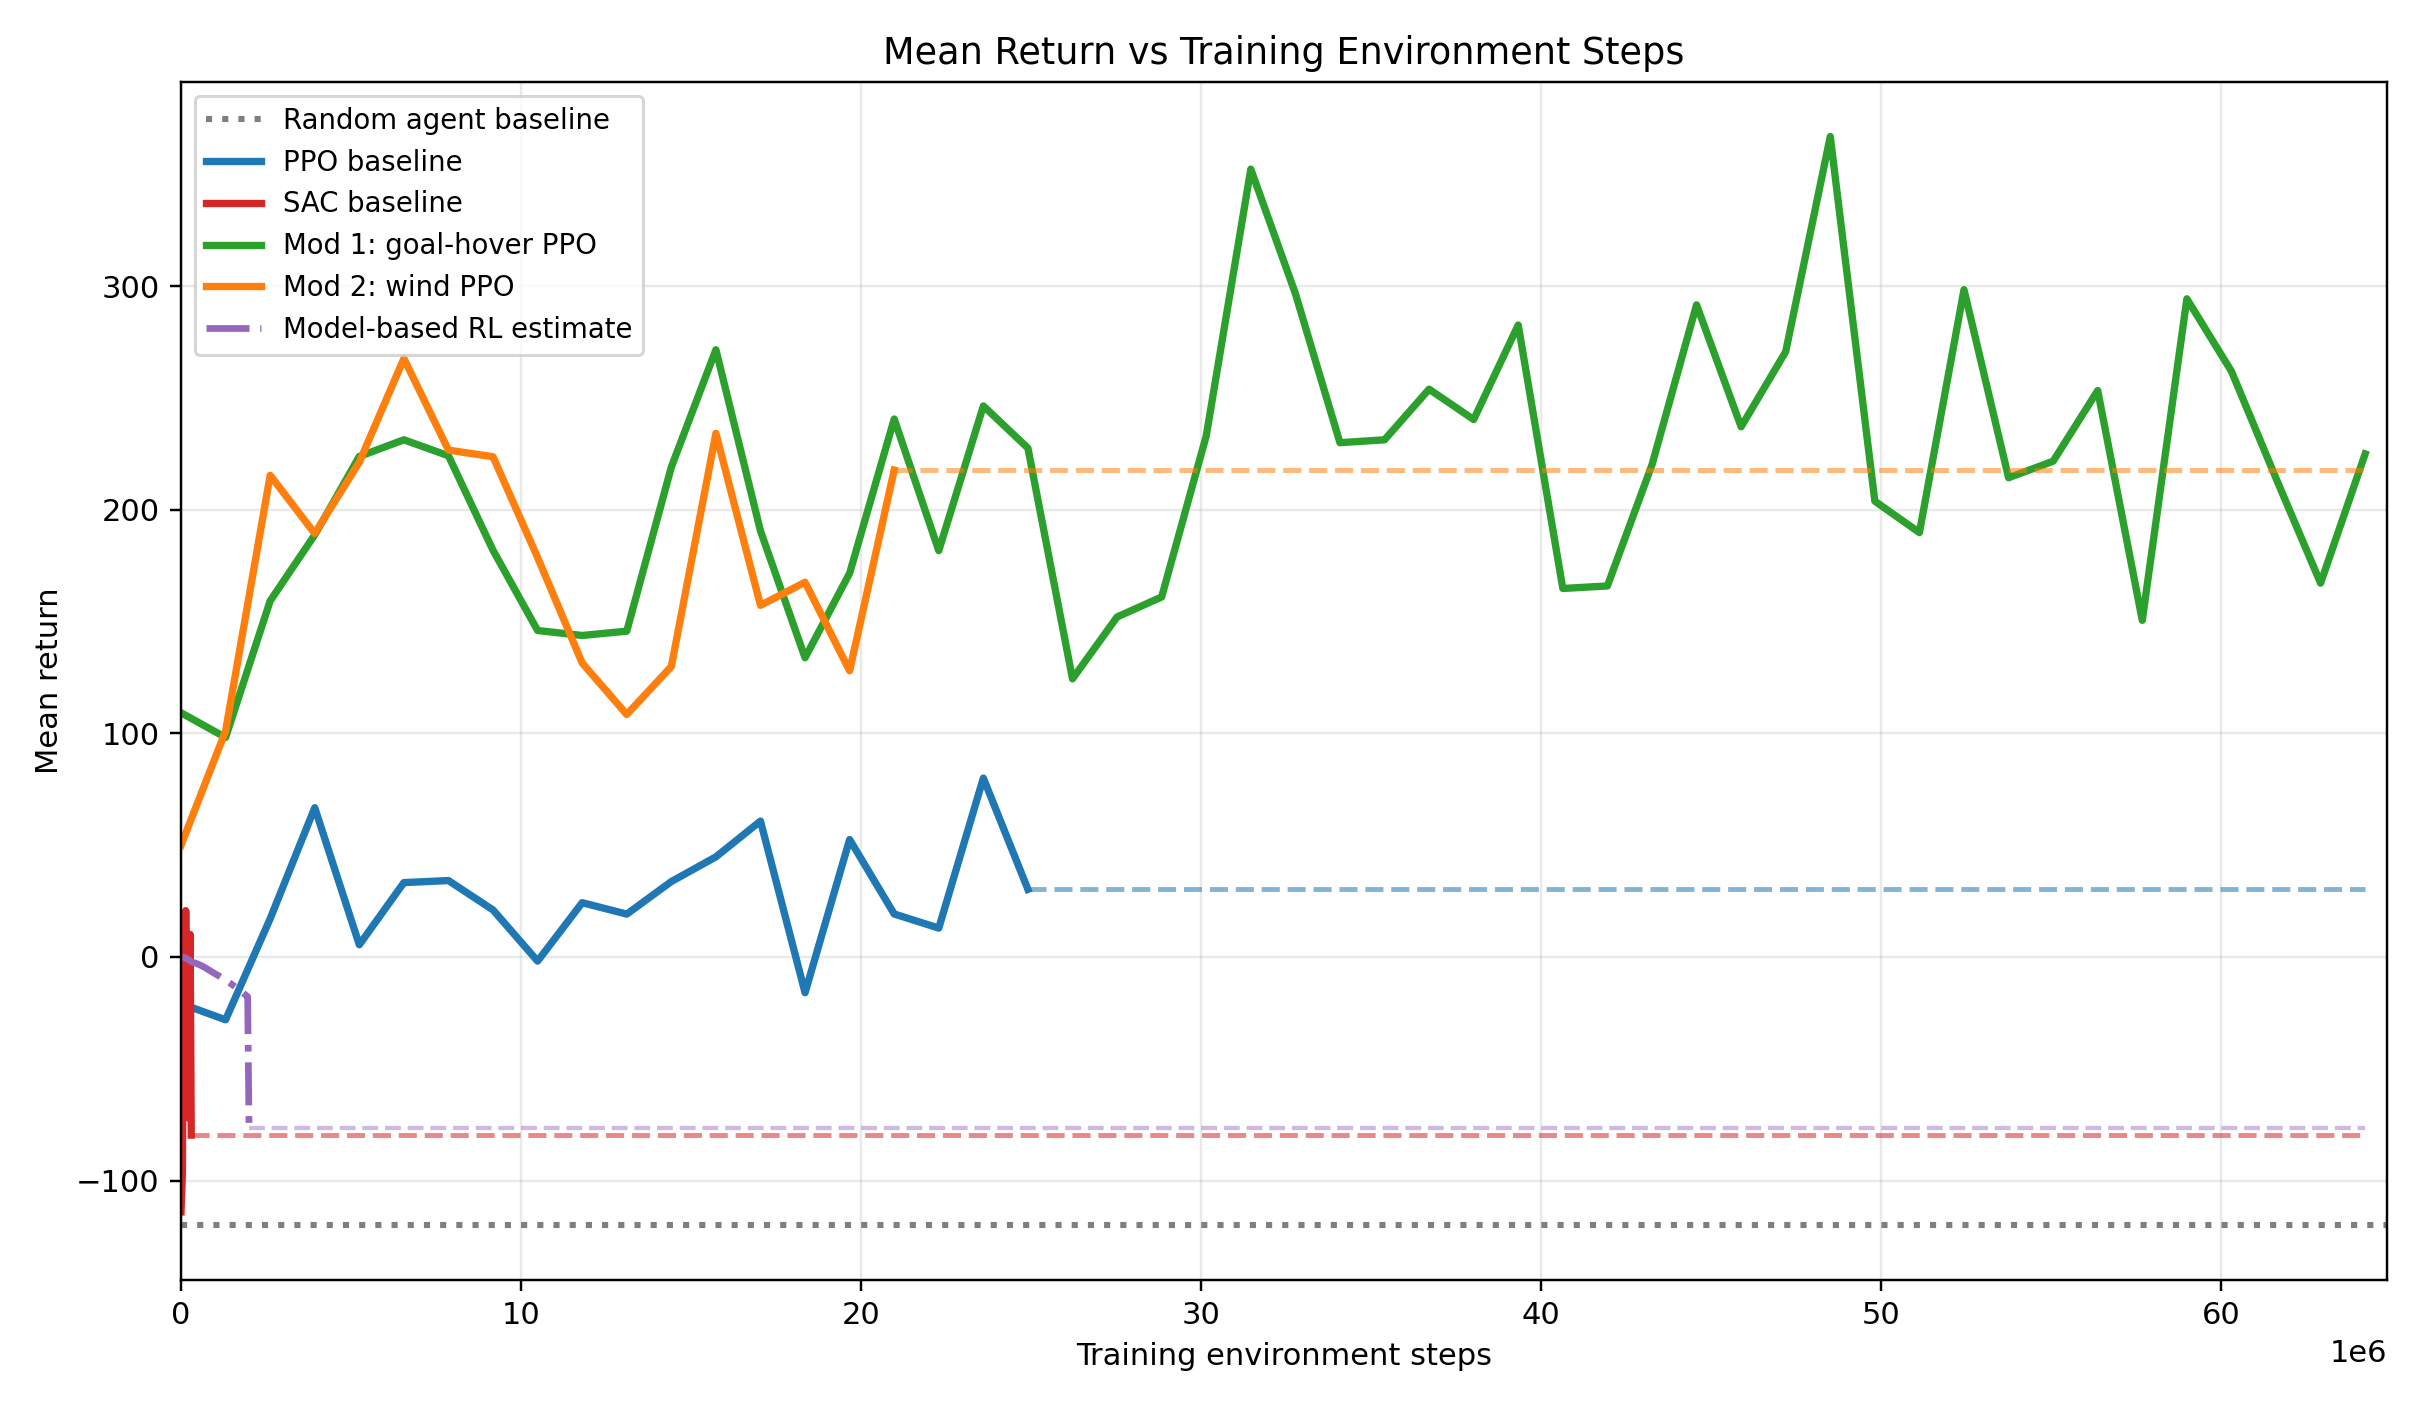
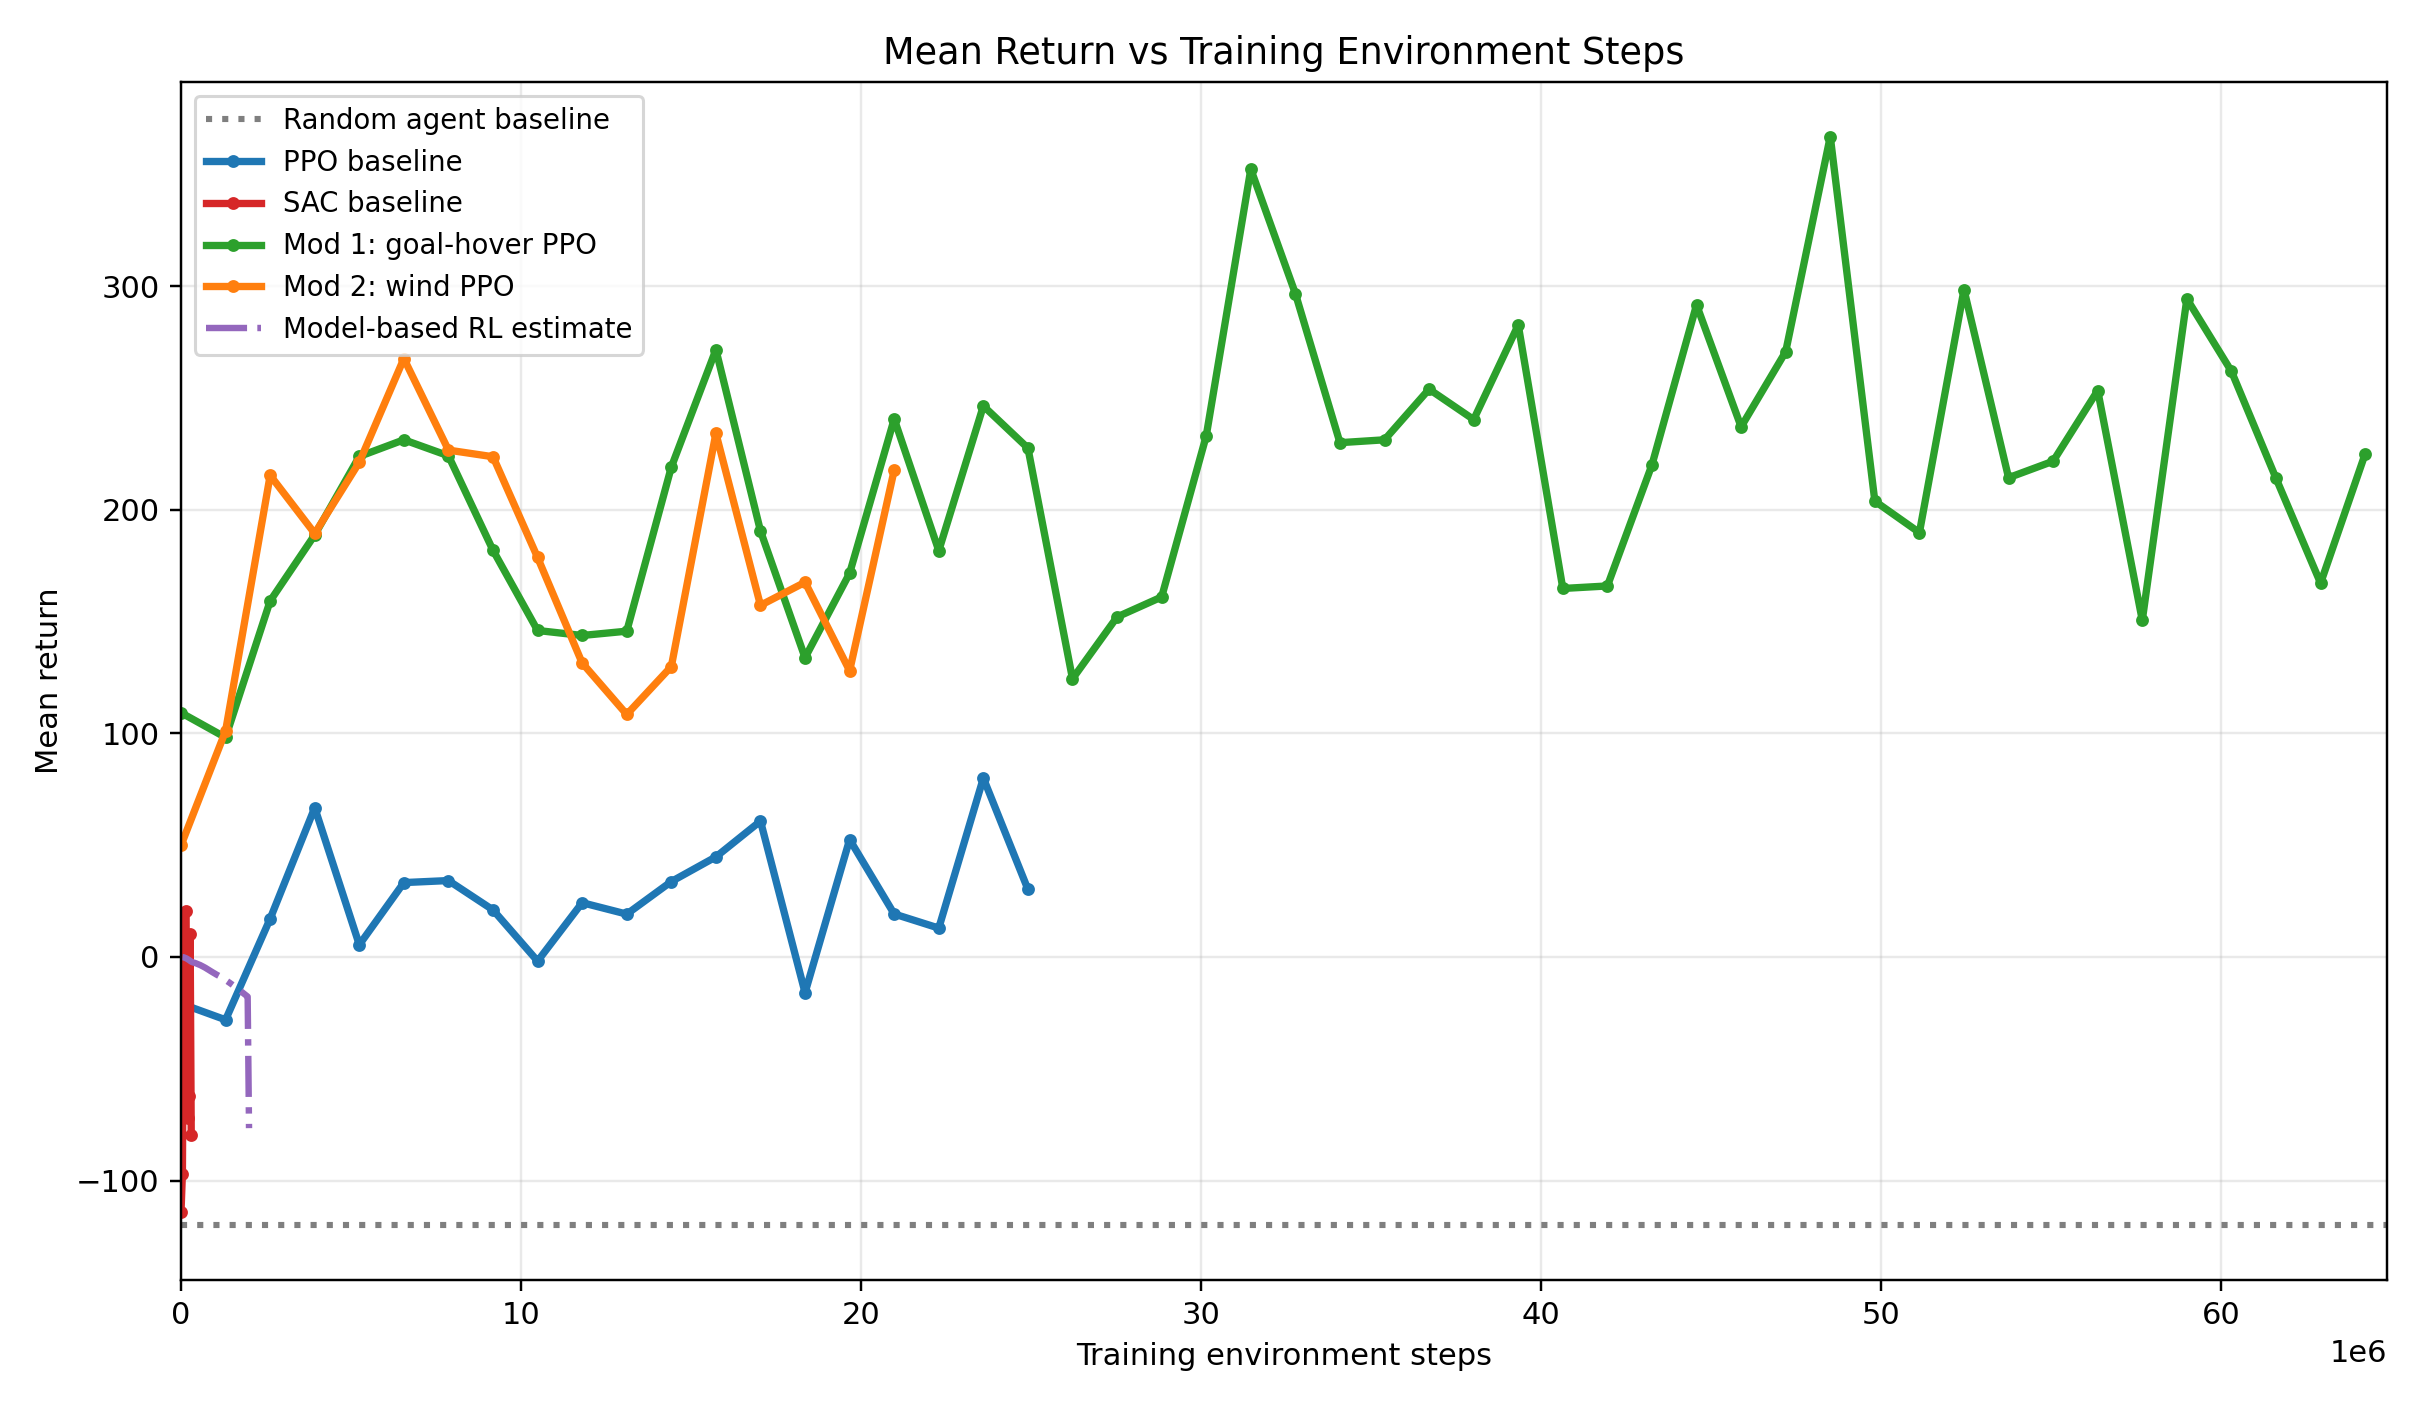
Remove generated tails from final results figure

Changed region(s): [[0.093, 0.7812, 0.9607, 0.8125], [0.8368, 0.3125, 0.8678, 0.3438]]

diff --git a/RL_Final_Report/main.tex b/RL_Final_Report/main.tex
@@ -57,12 +57,12 @@ The first modification targets the main midterm failure case: the drone often mo
 The second modification introduces wind disturbances during training and evaluation. At reset, each episode samples a wind acceleration vector. During simulation, this wind perturbs the drone's translational velocity at each physics step. The wind is not directly added as an observation, so the policy must learn feedback behavior that corrects drift from state changes. This tests whether the learned pathing policy remains effective under external disturbances rather than only in still-air simulation.
 
 \section{Experimental Results}
-Figure~\ref{fig:main-results} shows the current learning curves available in the repository. The figure includes the random-agent baseline, PPO baseline, SAC baseline, a provisional model-based RL estimate, Modification 1, and Modification 2. PPO, SAC, and wind PPO runs that end before the longest Mod 1 run are extended with dashed hold-forward segments so all methods are visible on the same training-step axis. The MBRL curve is marked as an estimate because the available file reports cumulative return within an MPC episode, not repeated training evaluations.
+Figure~\ref{fig:main-results} shows the current learning curves available in the repository. The figure includes the random-agent baseline, PPO baseline, SAC baseline, a provisional model-based RL estimate, Modification 1, and Modification 2. Each PPO/SAC curve uses only saved evaluation points from its corresponding training run. The MBRL curve is marked as an estimate because the available file reports cumulative return within an MPC episode, not repeated training evaluations.
 
 \begin{figure}[H]
     \centering
     \includegraphics[width=0.97\linewidth]{figs/current_final_results.png}
-    \caption{Mean evaluation return versus training environment steps for the random baseline, PPO baseline, SAC baseline, provisional PETS/MPC model-based estimate, goal-hover PPO modification, and wind-trained PPO modification. Dashed tails indicate hold-forward extensions for shorter completed runs.}
+    \caption{Mean evaluation return versus training environment steps for the random baseline, PPO baseline, SAC baseline, provisional PETS/MPC model-based estimate, goal-hover PPO modification, and wind-trained PPO modification.}
     \label{fig:main-results}
 \end{figure}
 
